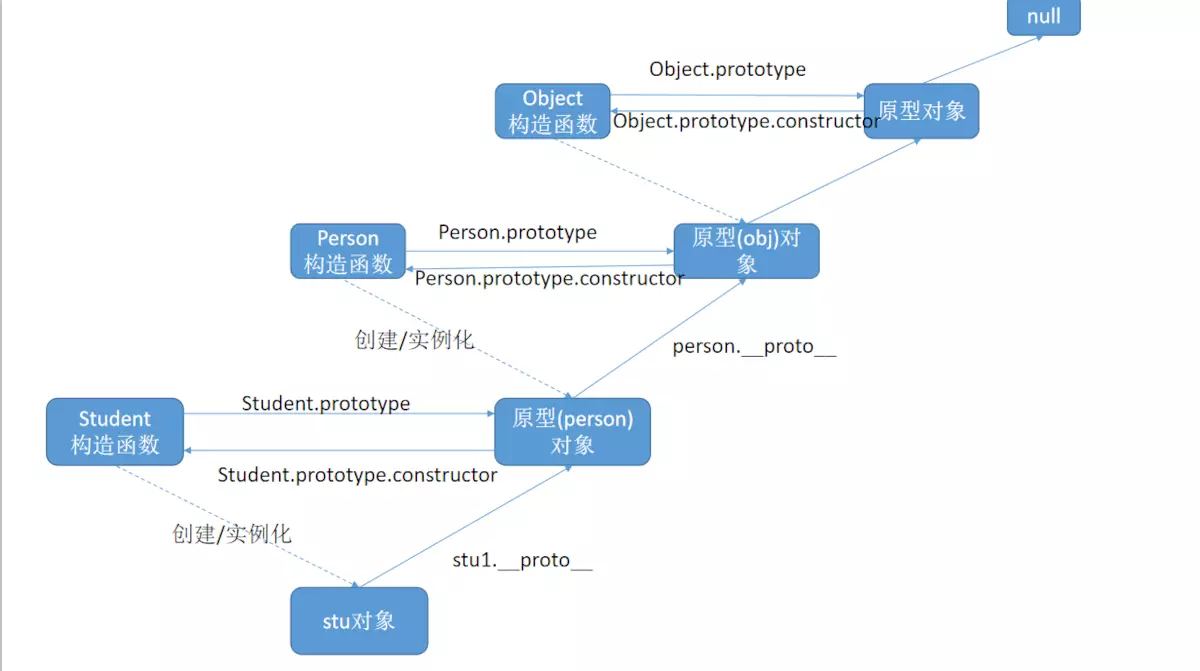
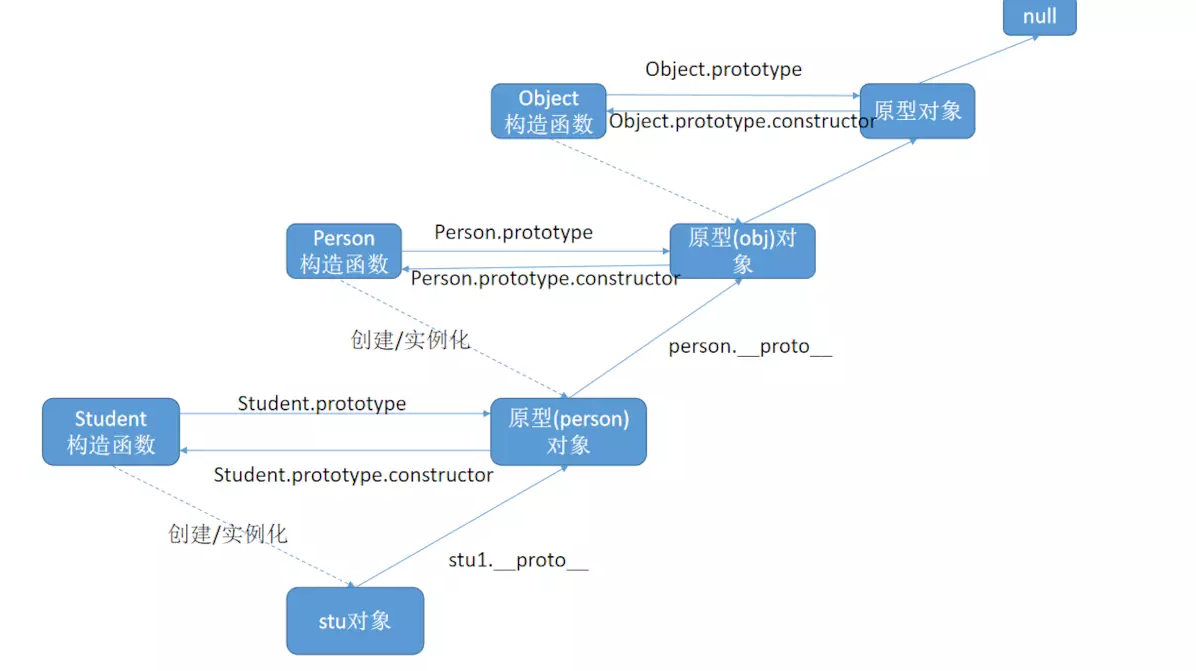
add js继承

diff --git a/source/_posts/2019/2019-07-28-JS中常用的继承方案.md b/source/_posts/2019/2019-07-28-JS中常用的继承方案.md
@@ -7,14 +7,16 @@ categories:
   - js
 tags:
   - js
-photos: /20190606/1/vuemvvm.jpg
+noshowgallery: true
+photos: /20190728/1/yuanxing.png
 ---
 
 在前端开发中，我们离不开面向过程和面向对象这两种开发模式。面向过程是指分析出实现需求所需要的步骤，通过函数一步一步地实现这些步骤，接着依次调用。面向对象是指将整个需求按功能、特性划分，将这些存有共性的部分封装成对象，创建了对象不是为了完成某一个步骤，而是描述某个事物在解决问题的步骤中的行为。对于复杂的项目，我们经常会用到面向对象的方式来组织我们的代码。前人早已给我们总结了几种常用的继承方式，熟悉这几种继承方式，对于我们的日常开发会有很大的裨益。
 
 <!-- more -->
 
-在 ES5 中，JS 没有 class 类，JS 对象 JS 中的继承是通过原型的 先来看一个简单的
+在 ES5 中，JS 没有 class 类，JS 中的继承是通过原型的方式来实现的。先来看一个简单的示例图。
+![](/20190728/1/jicheng.png)
 
 ## 1、原型链继承
 
